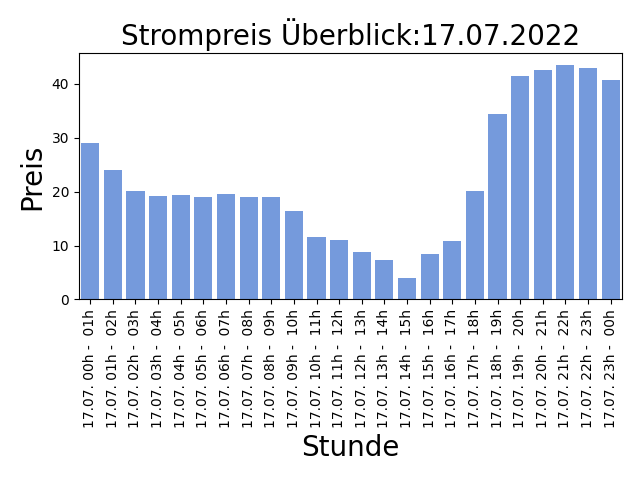
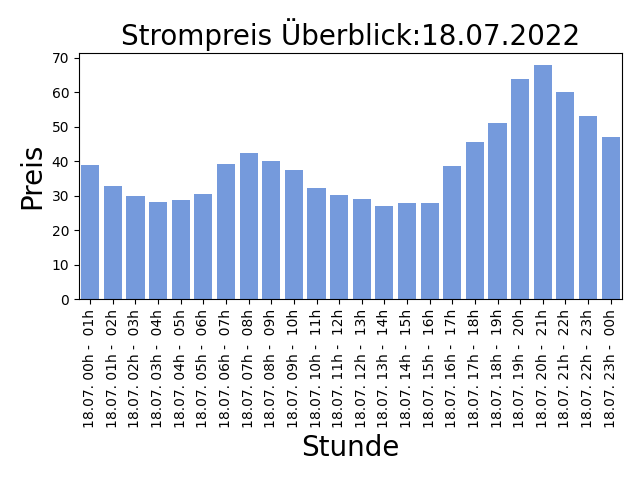
AUTOMATIC UPDATE PRICE LIST: 2022-07-17-14:30:05

diff --git a/README.md b/README.md
@@ -1,5 +1,5 @@
 
-## Strompreise für den 17.07.2022
+## Strompreise für den 18.07.2022
 
 Niedrige Preise deuten auf viel Sonnen und Windenergieerzeugung hin, ein hoher Anteil an erneuerbaren Energien bedeuted weniger CO2 Verbrauch!
 
@@ -7,31 +7,31 @@ Niedrige Preise deuten auf viel Sonnen und Windenergieerzeugung hin, ein hoher A
 
 | Stunde | Preis in Cent/kWh |
 |---|---|
-| 17.07. 00h -  01h | 29.006 | 
-| 17.07. 01h -  02h | 24.080000000000002 | 
-| 17.07. 02h -  03h | 20.064 | 
-| 17.07. 03h -  04h | 19.262999999999998 | 
-| 17.07. 04h -  05h | 19.381 | 
-| 17.07. 05h -  06h | 19.046 | 
-| 17.07. 06h -  07h | 19.502000000000002 | 
-| 17.07. 07h -  08h | 19.014 | 
-| 17.07. 08h -  09h | 18.951 | 
-| 17.07. 09h -  10h | 16.4 | 
-| 17.07. 10h -  11h | 11.577 | 
-| 17.07. 11h -  12h | 11.020999999999999 | 
-| 17.07. 12h -  13h | 8.759 | 
-| 17.07. 13h -  14h | 7.292 | 
-| **17.07. 14h -  15h** | **4.002000000000001** | 
-| 17.07. 15h -  16h | 8.342 | 
-| 17.07. 16h -  17h | 10.93 | 
-| 17.07. 17h -  18h | 20.089 | 
-| 17.07. 18h -  19h | 34.442 | 
-| 17.07. 19h -  20h | 41.501 | 
-| 17.07. 20h -  21h | 42.64 | 
-| 17.07. 21h -  22h | 43.495 | 
-| 17.07. 22h -  23h | 43.001999999999995 | 
-| 17.07. 23h -  00h | 40.657 | 
+| 18.07. 00h -  01h | 38.977 | 
+| 18.07. 01h -  02h | 32.849000000000004 | 
+| 18.07. 02h -  03h | 29.923000000000002 | 
+| 18.07. 03h -  04h | 28.244 | 
+| 18.07. 04h -  05h | 28.708 | 
+| 18.07. 05h -  06h | 30.511000000000003 | 
+| 18.07. 06h -  07h | 39.311 | 
+| 18.07. 07h -  08h | 42.494 | 
+| 18.07. 08h -  09h | 40.182 | 
+| 18.07. 09h -  10h | 37.393 | 
+| 18.07. 10h -  11h | 32.403 | 
+| 18.07. 11h -  12h | 30.344 | 
+| 18.07. 12h -  13h | 29.135 | 
+| **18.07. 13h -  14h** | **27.157** | 
+| 18.07. 14h -  15h | 27.788999999999998 | 
+| 18.07. 15h -  16h | 27.997000000000003 | 
+| 18.07. 16h -  17h | 38.625 | 
+| 18.07. 17h -  18h | 45.542 | 
+| 18.07. 18h -  19h | 51.25599999999999 | 
+| 18.07. 19h -  20h | 63.763999999999996 | 
+| 18.07. 20h -  21h | 67.954 | 
+| 18.07. 21h -  22h | 60.0 | 
+| 18.07. 22h -  23h | 53.013 | 
+| 18.07. 23h -  00h | 46.986000000000004 | 
 
 Preise der EPEX Spot ® Strombörse (neue Preise werden täglich um 14:00 veröffentlicht für den kompletten nächsten Tag).
 
-letzte Aktualisierung:16.07.2022 14:30
+letzte Aktualisierung:17.07.2022 14:30
